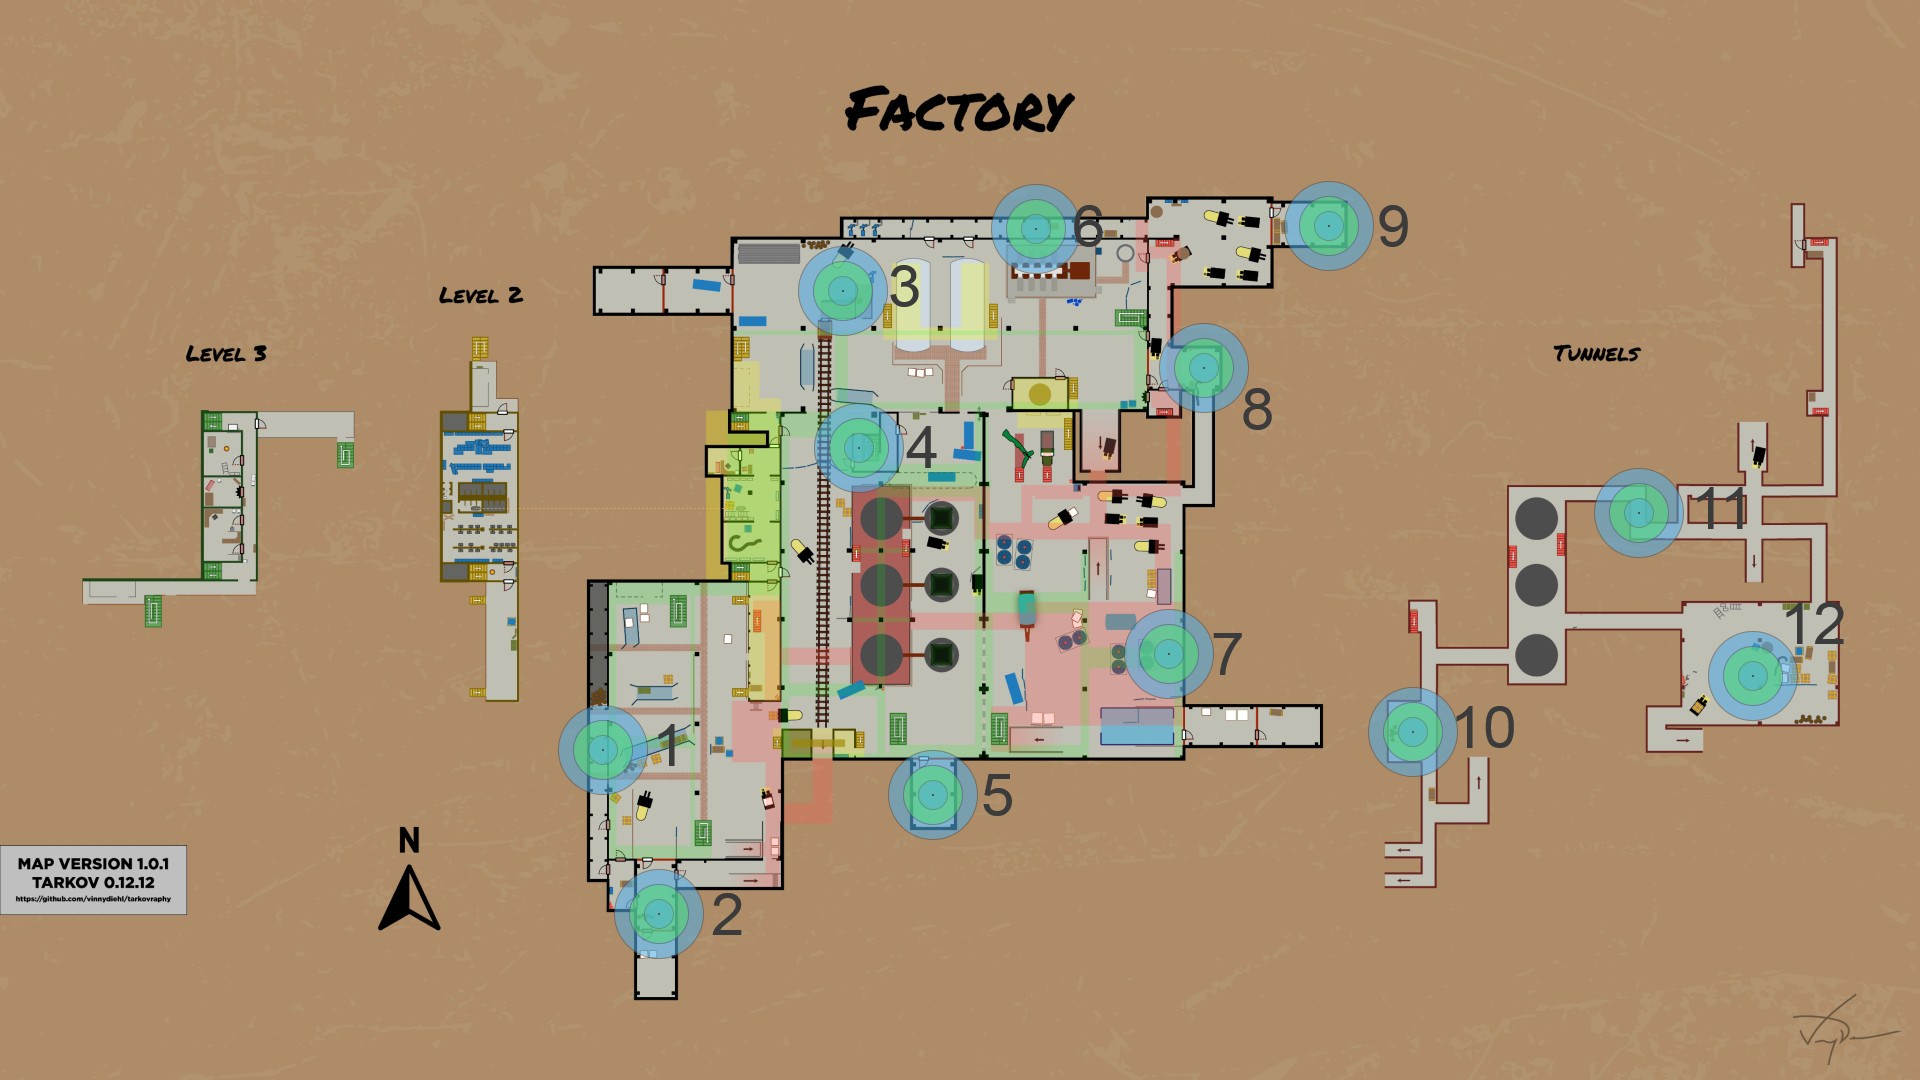
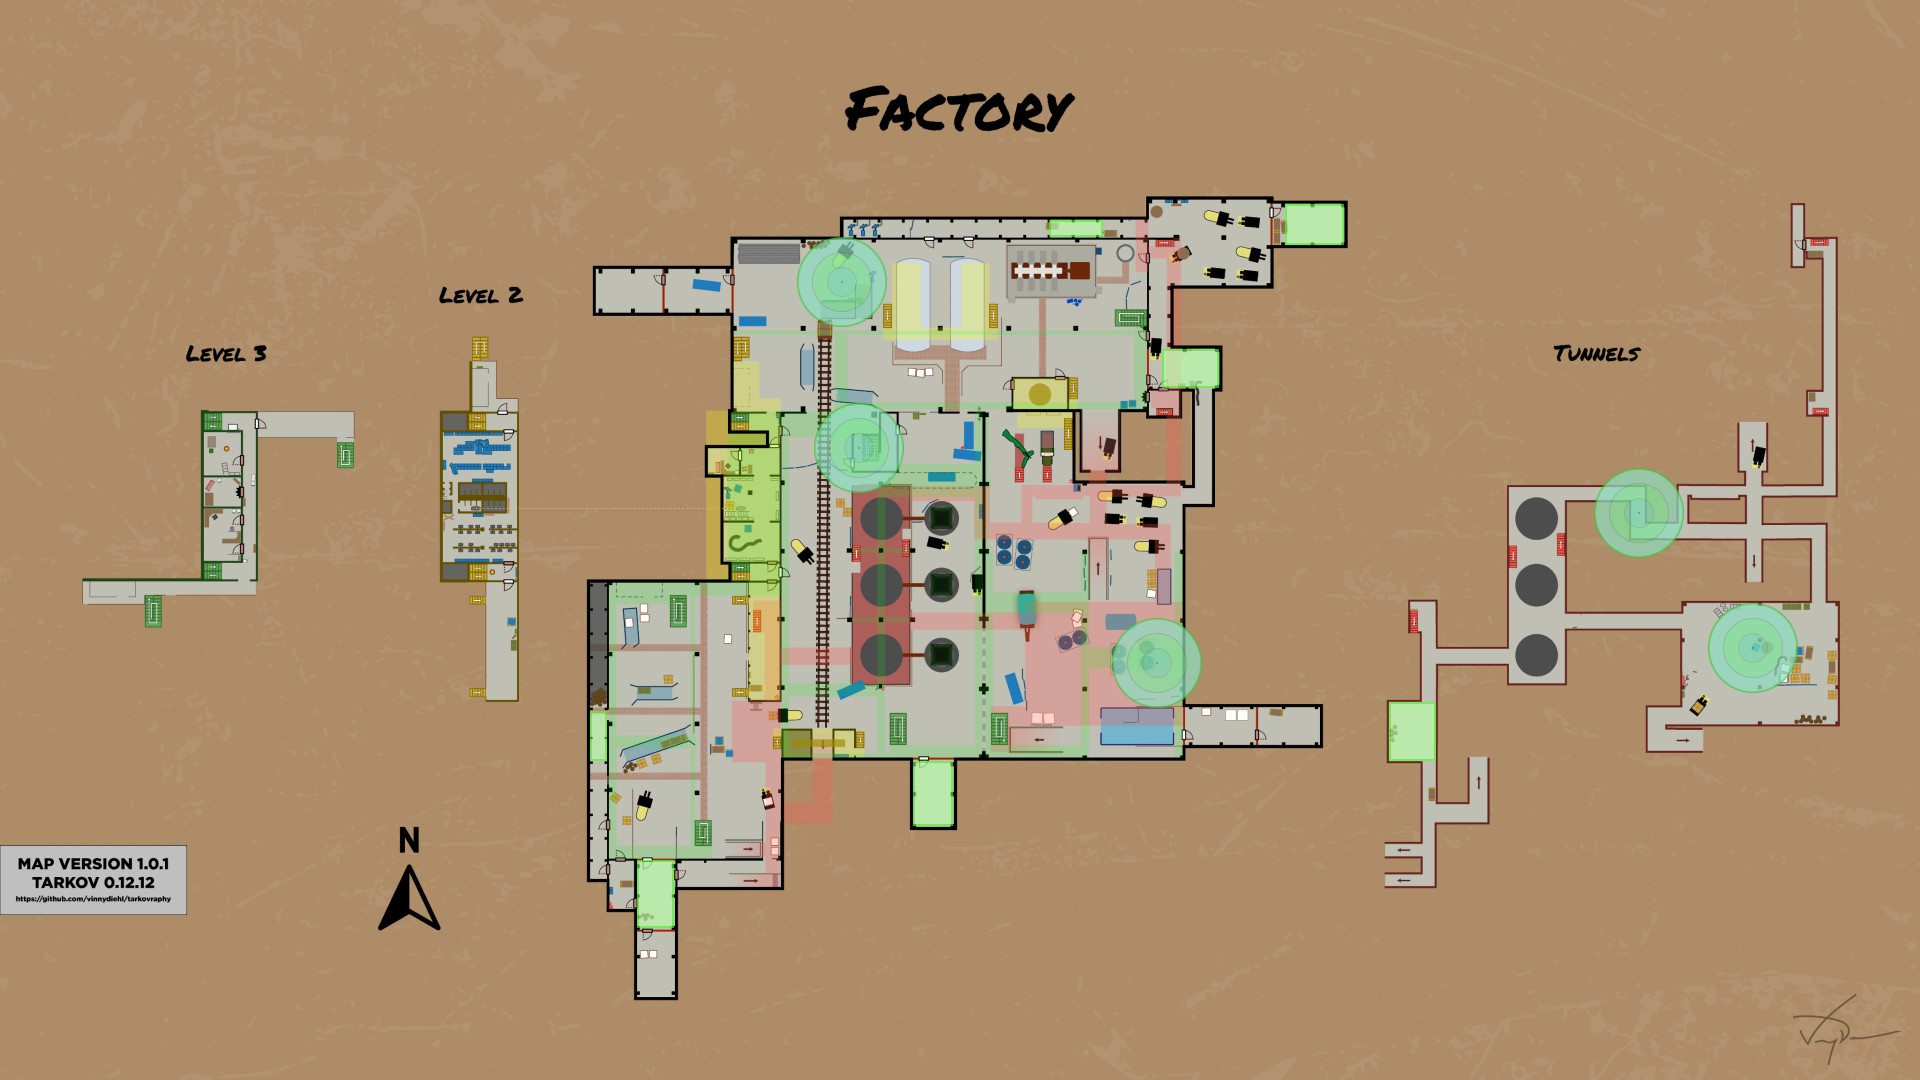
implementing of scoremaps with leaflet
uploading scored maps for display

diff --git a/factpan.html b/factpan.html
@@ -98,14 +98,16 @@
       function scoreMap() {
 
         let spawn_data = JSON.parse(sessionStorage.getItem('spawn_data'));
+        let spawn_name = sessionStorage.getItem('spawn_name');
         let user_coords = JSON.parse(sessionStorage.getItem('user_click'));
 
         console.log(user_coords);
 
+        let imageURL = getScoreMap(spawn_name,spawn_data);
+
         let score_map = L.map('score_map', {
           crs: L.CRS.Simple
         });
-        let imageURL = 'locations\\FACT\\overlay\\FACT_Base.jpg';
         let imageBnds = [[0,0],[432,768]];
   
         L.imageOverlay(imageURL,imageBnds).addTo(score_map);
@@ -122,38 +124,18 @@
 
         let user_click = L.marker(user_coords).addTo(score_map);
 
-        //determining what type of score zone to add around the users input. 
-        if(spawn_data["type"] === "targ"){
+        // //determining what type of score zone to add around the users input. 
+        // if(spawn_data["type"] === "targ"){
 
-          let x = Number(spawn_data["x_cords"]);
-          let y = Number(spawn_data["y_cords"]);
+          
+          
+        // }else{
 
-          console.log(x + " | " + y);
-
-          let circ = L.circle([x,y], {
-            color: 'red',
-            fillColor: '#f03',
-            fillOpacity: 0.3,
-            radius: 3
-          }).addTo(score_map);
-        }else{
-
-          let x1 = Number(spawn_data["x1_cords"]);
-          let y1 = Number(spawn_data["y1_cords"]);
-          let x2 = Number(spawn_data["x2_cords"]);
-          let y2 = Number(spawn_data["y2_cords"]);
-
-          let rect = L.polygon([
-            [x1,y1],
-            [x2,y2],
-            [x1,y2],
-            [x2,y1],
-          ]).addTo(score_map);
-        }
+          
+        // }
       }
       
     </script>
-
 
 
 

diff --git a/js/spawn.js b/js/spawn.js
@@ -130,6 +130,16 @@ function boxScorer(time, user_x, user_y, x1, y1, x2, y2){
     return 0;
 }
 
+function getScoreMap(spawn_name, spawn_data){
+  let spawn_num = spawn_data['id'];
+
+  let fileNm = "locations/"+spawn_name+"/overlay/scored/"+spawn_name+"_"+spawn_num+"_Scored.jpg";
+  console.log(fileNm);
+  return fileNm;
+}
+
+
+
 //WILL OPEN THE MAP OVERLAY WHEN THE GUESS BUTTON IS PRESSED, THE EVENT LISTENER WILL PASSIVELY WAIT FOR AN ESCAPE KEY PRESS
 function showMapOverlay() {
   document.getElementById('map').style.display = 'block';
